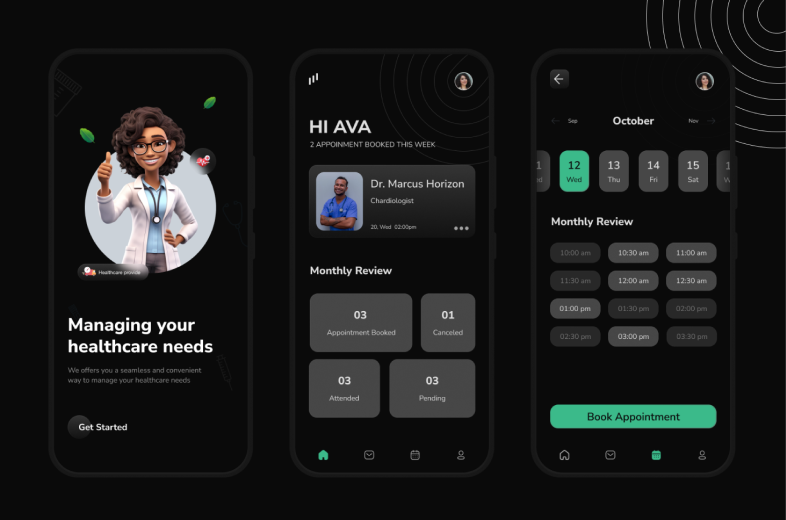
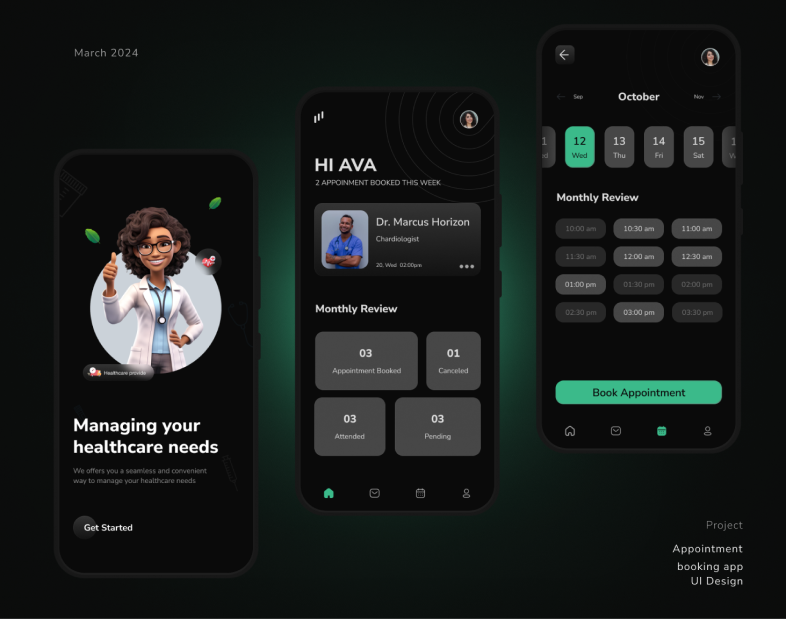
gif change

diff --git a/index.html b/index.html
@@ -113,7 +113,7 @@
 					<div class="col-lg-4 col-md-6 all latest popular UIDesign">
 						<div class="portfolio_box">
 							<div class="single_portfolio">
-								<img class="img-fluid w-100" src="img\portfolio\HealthLink_cover.png" alt="">
+								<img class="img-fluid w-100" src="img\portfolio\Healthlinkcover.gif" alt="">
 								<div class="overlay"> </div>
 								<a href="img\portfolio\HealthLink_popup.png" class="img-gal">
 									

diff --git a/portfolio.html b/portfolio.html
@@ -93,7 +93,7 @@
 					<div class="col-lg-4 col-md-6 all latest popular UIDesign">
 						<div class="portfolio_box">
 							<div class="single_portfolio">
-								<img class="img-fluid w-100" src="img\portfolio\HealthLink_cover.png" alt="">
+								<img class="img-fluid w-100" src="img\portfolio\Healthlinkcover.gif" alt="">
 								<div class="overlay"> </div>
 								<a href="img\portfolio\HealthLink_popup.png" class="img-gal">
 									
